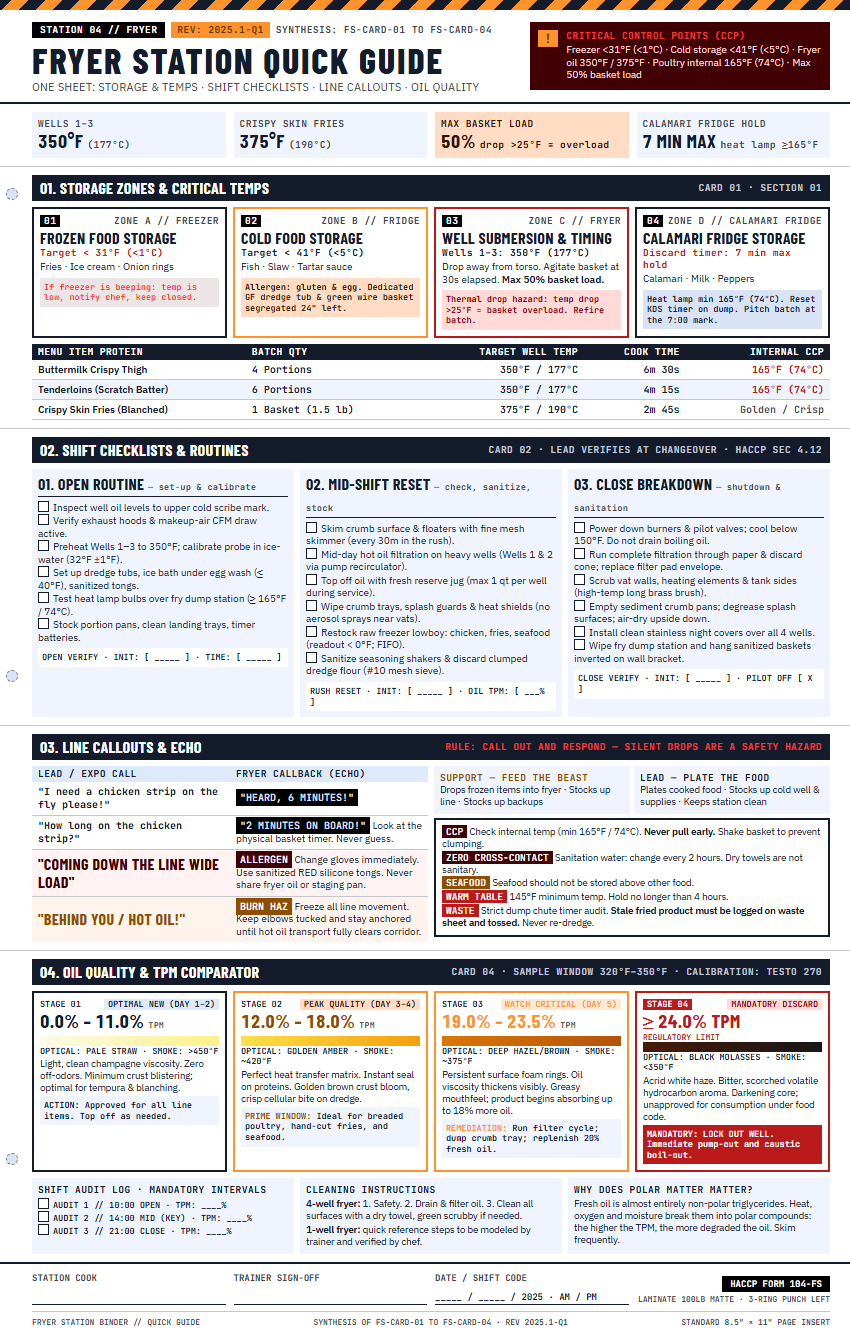
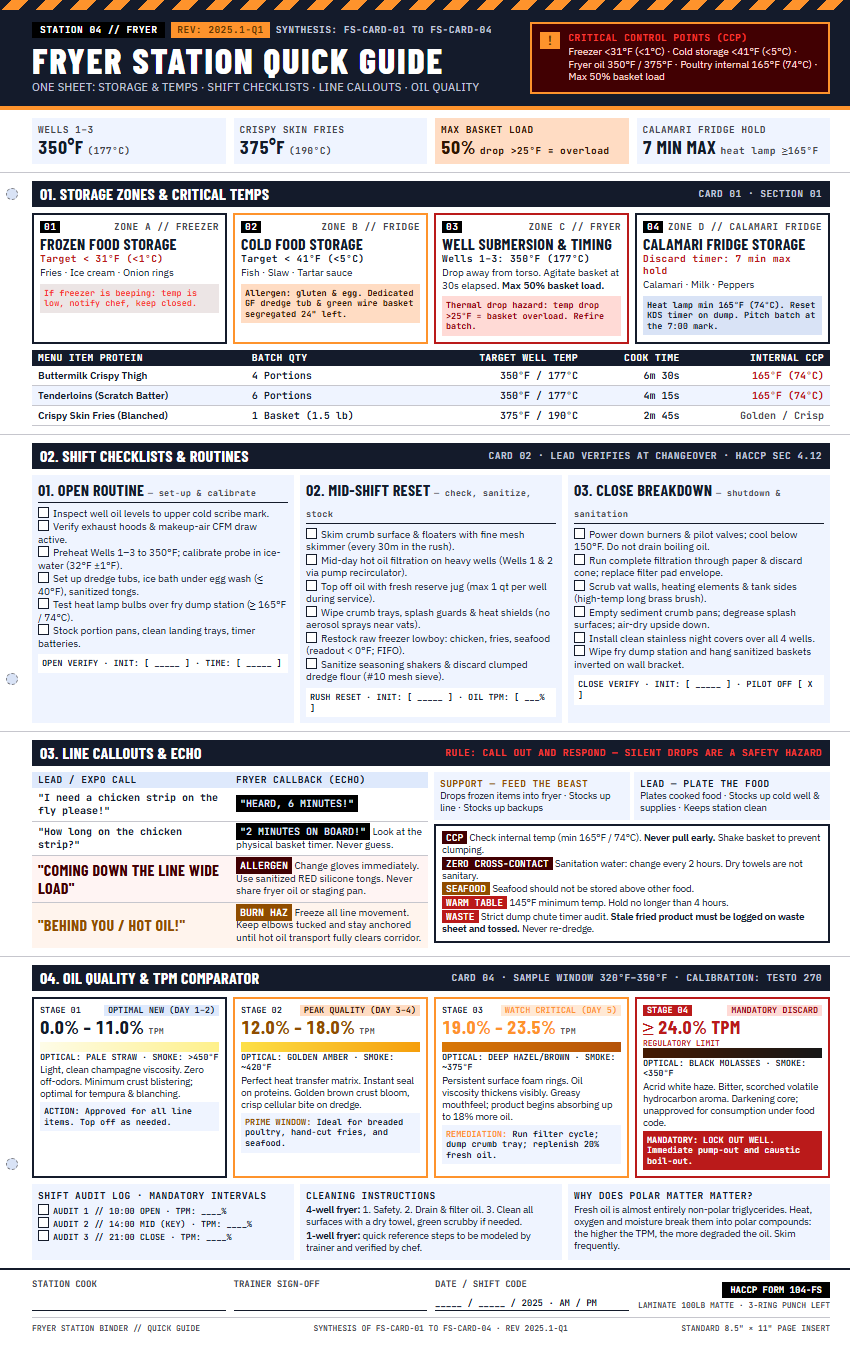
fix(example-training-materials): calmer top bar, guide header matches the cards
Short nav labels and no spec chips so brand + nav + buttons fit one row; the quick
guide opens with the same ink band the cards use. The edit banner and Reset button
no longer show with zero edits (Tailwind's .flex was beating the hidden attribute).
Nav links now verified by real click-through in the check script (18/18).

diff --git a/public/example-training-materials/card-01-storage-temps.html b/public/example-training-materials/card-01-storage-temps.html
@@ -1,6 +1,7 @@
 <!DOCTYPE html><html lang="en" style=""><head><meta charset="utf-8"><meta content="width=device-width, initial-scale=1.0" name="viewport">
 <title>Card 01 · Storage &amp; Temps</title><meta content="web_standard" name="shell-type"><link href="https://fonts.googleapis.com" rel="preconnect"><link crossorigin="" href="https://fonts.gstatic.com" rel="preconnect"><link href="https://fonts.googleapis.com/css2?family=Barlow+Condensed:wght@600;700;800&amp;family=IBM+Plex+Sans:wght@400;500;600&amp;family=JetBrains+Mono:wght@600;700&amp;display=swap" rel="stylesheet"><link href="https://fonts.googleapis.com/css2?family=Material+Symbols+Outlined:opsz,wght,FILL,GRAD@24,400,0,0" rel="stylesheet">
 <link href="https://fonts.googleapis.com/css2?family=Material+Symbols+Outlined:wght,FILL@100..700,0..1&amp;display=swap" rel="stylesheet"><style>@layer base{html,body{margin:0;padding:0;}body{overscroll-behavior:none;}main>:first-child{margin-top:0!important;}main>:last-child{margin-bottom:0!important;}}::-webkit-scrollbar{display:none;}</style><script src="https://cdn.tailwindcss.com"></script><script src="tw-config.js"></script><style>
+[hidden] { display: none !important; } /* Tailwind's .flex would otherwise beat the hidden attribute */
 label > input[type="checkbox"].peer + div { border: 2px solid #141b2b; }
 .is-editing [data-edit] { outline: 2px dashed #fe932c; outline-offset: 1px; cursor: text; background: #fff7ed; }
 .is-editing [data-edit]:focus { outline: 2px solid #141b2b; background: #fff; }
@@ -27,7 +28,7 @@ label > input[type="checkbox"].peer + div { border: 2px solid #141b2b; }
   .xl\:grid-cols-4{grid-template-columns:repeat(4,minmax(0,1fr))!important}
 }
 </style>
-</head><body data-card="01" class="bg-background font-body-md text-on-surface antialiased min-h-screen flex flex-col"><header class="sticky top-0 left-0 w-full z-50 bg-primary-container text-on-primary shadow-[0_1px_8px_rgba(0,0,0,0.04)]"><div class="min-h-16 w-full px-margin py-space-xs flex flex-wrap items-center justify-between gap-space-sm"><div class="flex items-center gap-space-lg"><div class="flex items-center gap-space-sm bg-primary px-space-md py-space-xs"><span class="w-2 h-2 bg-secondary-container"></span><span class="font-headline-md text-headline-md uppercase tracking-wide text-on-primary">Fryer Station</span></div><div class="hidden md:flex items-center gap-space-xs bg-surface-container-highest/20 px-space-sm py-space-xs"><span class="font-label-sm text-label-sm text-on-primary-container uppercase">BINDER SPEC:</span><span class="font-label-sm text-label-sm text-primary-fixed uppercase">5.5" × 8.5" HALF-SHEET</span></div></div><nav class="flex flex-wrap items-center gap-space-xs" aria-label="Binder"><a class="font-label-md text-label-md uppercase px-space-md py-space-xs text-on-primary-container hover:text-on-primary transition-colors" href="index.html">Binder Home</a><a aria-current="page" class="font-label-md text-label-md uppercase px-space-md py-space-xs transition-colors bg-primary text-on-primary font-bold shadow-[2px_2px_0px_#fe932c]" href="card-01-storage-temps.html">01. Storage &amp; Temps</a><a class="font-label-md text-label-md uppercase px-space-md py-space-xs text-on-primary-container hover:text-on-primary transition-colors" href="card-02-shift-checklists.html">02. Shift Checklists</a><a class="font-label-md text-label-md uppercase px-space-md py-space-xs text-on-primary-container hover:text-on-primary transition-colors" href="card-03-line-callouts.html">03. Line Callouts</a><a class="font-label-md text-label-md uppercase px-space-md py-space-xs text-on-primary-container hover:text-on-primary transition-colors" href="card-04-oil-quality.html">04. Oil Quality</a><a class="font-label-md text-label-md uppercase px-space-md py-space-xs text-on-primary-container hover:text-on-primary transition-colors" href="quick-guide.html">Quick Guide</a></nav><div class="flex items-center gap-space-md"><div class="flex items-center gap-space-sm">
+</head><body data-card="01" class="bg-background font-body-md text-on-surface antialiased min-h-screen flex flex-col"><header class="sticky top-0 left-0 w-full z-50 bg-primary-container text-on-primary shadow-[0_1px_8px_rgba(0,0,0,0.04)]"><div class="min-h-16 w-full px-margin py-space-xs flex flex-wrap items-center justify-between gap-space-sm"><div class="flex items-center gap-space-lg"><div class="flex items-center gap-space-sm bg-primary px-space-md py-space-xs"><span class="w-2 h-2 bg-secondary-container"></span><span class="font-headline-md text-headline-md uppercase tracking-wide text-on-primary">Fryer Station</span></div></div><nav class="flex flex-wrap items-center gap-space-xs" aria-label="Binder"><a class="font-label-md text-label-md uppercase px-space-sm py-space-xs text-on-primary-container hover:text-on-primary transition-colors" href="index.html">Home</a><a aria-current="page" class="font-label-md text-label-md uppercase px-space-sm py-space-xs transition-colors bg-primary text-on-primary font-bold shadow-[2px_2px_0px_#fe932c]" href="card-01-storage-temps.html">01 Storage &amp; Temps</a><a class="font-label-md text-label-md uppercase px-space-sm py-space-xs text-on-primary-container hover:text-on-primary transition-colors" href="card-02-shift-checklists.html">02 Checklists</a><a class="font-label-md text-label-md uppercase px-space-sm py-space-xs text-on-primary-container hover:text-on-primary transition-colors" href="card-03-line-callouts.html">03 Callouts</a><a class="font-label-md text-label-md uppercase px-space-sm py-space-xs text-on-primary-container hover:text-on-primary transition-colors" href="card-04-oil-quality.html">04 Oil Quality</a><a class="font-label-md text-label-md uppercase px-space-sm py-space-xs text-on-primary-container hover:text-on-primary transition-colors" href="quick-guide.html">Quick Guide</a></nav><div class="flex items-center gap-space-md"><div class="flex items-center gap-space-sm">
 <button type="button" data-lang-toggle data-i18n-skip class="flex items-center gap-1 bg-primary text-on-primary px-space-sm py-space-xs font-label-md text-label-md uppercase tracking-wider border border-outline" aria-label="Cambiar a español"><span class="material-symbols-outlined text-[16px]" aria-hidden="true">translate</span><span data-lang-label>Español</span></button>
 <button type="button" data-edit-toggle aria-pressed="false" class="flex items-center gap-1 bg-primary text-on-primary px-space-sm py-space-xs font-label-md text-label-md uppercase tracking-wider border border-outline"><span class="material-symbols-outlined text-[16px]" aria-hidden="true">edit</span><span data-edit-label data-i18n-skip>Edit</span></button>
 <button type="button" data-edit-reset hidden class="flex items-center gap-1 bg-error-container text-on-error-container px-space-sm py-space-xs font-label-md text-label-md uppercase tracking-wider"><span class="material-symbols-outlined text-[16px]" aria-hidden="true">undo</span><span>Reset edits</span></button>

diff --git a/public/example-training-materials/card-02-shift-checklists.html b/public/example-training-materials/card-02-shift-checklists.html
@@ -1,6 +1,7 @@
 <!DOCTYPE html><html lang="en" style=""><head><meta charset="utf-8"><meta content="width=device-width, initial-scale=1.0" name="viewport">
 <title>Card 02 · Shift Checklists</title><meta content="web_standard" name="shell-type"><link href="https://fonts.googleapis.com" rel="preconnect"><link crossorigin="" href="https://fonts.gstatic.com" rel="preconnect"><link href="https://fonts.googleapis.com/css2?family=Barlow+Condensed:wght@600;700;800&amp;family=IBM+Plex+Sans:wght@400;500;600&amp;family=JetBrains+Mono:wght@600;700&amp;display=swap" rel="stylesheet"><link href="https://fonts.googleapis.com/css2?family=Material+Symbols+Outlined:opsz,wght,FILL,GRAD@24,400,0,0" rel="stylesheet">
 <link href="https://fonts.googleapis.com/css2?family=Material+Symbols+Outlined:wght,FILL@100..700,0..1&amp;display=swap" rel="stylesheet"><style>@layer base{html,body{margin:0;padding:0;}body{overscroll-behavior:none;}main>:first-child{margin-top:0!important;}main>:last-child{margin-bottom:0!important;}}::-webkit-scrollbar{display:none;}</style><script src="https://cdn.tailwindcss.com"></script><script src="tw-config.js"></script><style>
+[hidden] { display: none !important; } /* Tailwind's .flex would otherwise beat the hidden attribute */
 label > input[type="checkbox"].peer + div { border: 2px solid #141b2b; }
 .is-editing [data-edit] { outline: 2px dashed #fe932c; outline-offset: 1px; cursor: text; background: #fff7ed; }
 .is-editing [data-edit]:focus { outline: 2px solid #141b2b; background: #fff; }
@@ -27,7 +28,7 @@ label > input[type="checkbox"].peer + div { border: 2px solid #141b2b; }
   .xl\:grid-cols-4{grid-template-columns:repeat(4,minmax(0,1fr))!important}
 }
 </style>
-</head><body data-card="02" class="bg-background font-body-md text-on-surface antialiased min-h-screen flex flex-col"><header class="sticky top-0 left-0 w-full z-50 bg-primary-container text-on-primary shadow-[0_1px_8px_rgba(0,0,0,0.04)]"><div class="min-h-16 w-full px-margin py-space-xs flex flex-wrap items-center justify-between gap-space-sm"><div class="flex items-center gap-space-lg"><div class="flex items-center gap-space-sm bg-primary px-space-md py-space-xs"><span class="w-2 h-2 bg-secondary-container"></span><span class="font-headline-md text-headline-md uppercase tracking-wide text-on-primary">Fryer Station</span></div><div class="hidden md:flex items-center gap-space-xs bg-surface-container-highest/20 px-space-sm py-space-xs"><span class="font-label-sm text-label-sm text-on-primary-container uppercase">BINDER SPEC:</span><span class="font-label-sm text-label-sm text-primary-fixed uppercase">5.5" × 8.5" HALF-SHEET</span></div></div><nav class="flex flex-wrap items-center gap-space-xs" aria-label="Binder"><a class="font-label-md text-label-md uppercase px-space-md py-space-xs text-on-primary-container hover:text-on-primary transition-colors" href="index.html">Binder Home</a><a class="font-label-md text-label-md uppercase px-space-md py-space-xs text-on-primary-container hover:text-on-primary transition-colors" href="card-01-storage-temps.html">01. Storage &amp; Temps</a><a aria-current="page" class="font-label-md text-label-md uppercase px-space-md py-space-xs transition-colors bg-primary text-on-primary font-bold shadow-[2px_2px_0px_#fe932c]" href="card-02-shift-checklists.html">02. Shift Checklists</a><a class="font-label-md text-label-md uppercase px-space-md py-space-xs text-on-primary-container hover:text-on-primary transition-colors" href="card-03-line-callouts.html">03. Line Callouts</a><a class="font-label-md text-label-md uppercase px-space-md py-space-xs text-on-primary-container hover:text-on-primary transition-colors" href="card-04-oil-quality.html">04. Oil Quality</a><a class="font-label-md text-label-md uppercase px-space-md py-space-xs text-on-primary-container hover:text-on-primary transition-colors" href="quick-guide.html">Quick Guide</a></nav><div class="flex items-center gap-space-md"><div class="flex items-center gap-space-sm">
+</head><body data-card="02" class="bg-background font-body-md text-on-surface antialiased min-h-screen flex flex-col"><header class="sticky top-0 left-0 w-full z-50 bg-primary-container text-on-primary shadow-[0_1px_8px_rgba(0,0,0,0.04)]"><div class="min-h-16 w-full px-margin py-space-xs flex flex-wrap items-center justify-between gap-space-sm"><div class="flex items-center gap-space-lg"><div class="flex items-center gap-space-sm bg-primary px-space-md py-space-xs"><span class="w-2 h-2 bg-secondary-container"></span><span class="font-headline-md text-headline-md uppercase tracking-wide text-on-primary">Fryer Station</span></div></div><nav class="flex flex-wrap items-center gap-space-xs" aria-label="Binder"><a class="font-label-md text-label-md uppercase px-space-sm py-space-xs text-on-primary-container hover:text-on-primary transition-colors" href="index.html">Home</a><a class="font-label-md text-label-md uppercase px-space-sm py-space-xs text-on-primary-container hover:text-on-primary transition-colors" href="card-01-storage-temps.html">01 Storage &amp; Temps</a><a aria-current="page" class="font-label-md text-label-md uppercase px-space-sm py-space-xs transition-colors bg-primary text-on-primary font-bold shadow-[2px_2px_0px_#fe932c]" href="card-02-shift-checklists.html">02 Checklists</a><a class="font-label-md text-label-md uppercase px-space-sm py-space-xs text-on-primary-container hover:text-on-primary transition-colors" href="card-03-line-callouts.html">03 Callouts</a><a class="font-label-md text-label-md uppercase px-space-sm py-space-xs text-on-primary-container hover:text-on-primary transition-colors" href="card-04-oil-quality.html">04 Oil Quality</a><a class="font-label-md text-label-md uppercase px-space-sm py-space-xs text-on-primary-container hover:text-on-primary transition-colors" href="quick-guide.html">Quick Guide</a></nav><div class="flex items-center gap-space-md"><div class="flex items-center gap-space-sm">
 <button type="button" data-lang-toggle data-i18n-skip class="flex items-center gap-1 bg-primary text-on-primary px-space-sm py-space-xs font-label-md text-label-md uppercase tracking-wider border border-outline" aria-label="Cambiar a español"><span class="material-symbols-outlined text-[16px]" aria-hidden="true">translate</span><span data-lang-label>Español</span></button>
 <button type="button" data-edit-toggle aria-pressed="false" class="flex items-center gap-1 bg-primary text-on-primary px-space-sm py-space-xs font-label-md text-label-md uppercase tracking-wider border border-outline"><span class="material-symbols-outlined text-[16px]" aria-hidden="true">edit</span><span data-edit-label data-i18n-skip>Edit</span></button>
 <button type="button" data-edit-reset hidden class="flex items-center gap-1 bg-error-container text-on-error-container px-space-sm py-space-xs font-label-md text-label-md uppercase tracking-wider"><span class="material-symbols-outlined text-[16px]" aria-hidden="true">undo</span><span>Reset edits</span></button>

diff --git a/public/example-training-materials/card-03-line-callouts.html b/public/example-training-materials/card-03-line-callouts.html
@@ -1,6 +1,7 @@
 <!DOCTYPE html><html lang="en" style=""><head><meta charset="utf-8"><meta content="width=device-width, initial-scale=1.0" name="viewport">
 <title>Card 03 · Line Callouts</title><meta content="web_standard" name="shell-type"><link href="https://fonts.googleapis.com" rel="preconnect"><link crossorigin="" href="https://fonts.gstatic.com" rel="preconnect"><link href="https://fonts.googleapis.com/css2?family=Barlow+Condensed:wght@600;700;800&amp;family=IBM+Plex+Sans:wght@400;500;600&amp;family=JetBrains+Mono:wght@600;700&amp;display=swap" rel="stylesheet"><link href="https://fonts.googleapis.com/css2?family=Material+Symbols+Outlined:opsz,wght,FILL,GRAD@24,400,0,0" rel="stylesheet">
 <link href="https://fonts.googleapis.com/css2?family=Material+Symbols+Outlined:wght,FILL@100..700,0..1&amp;display=swap" rel="stylesheet"><style>@layer base{html,body{margin:0;padding:0;}body{overscroll-behavior:none;}main>:first-child{margin-top:0!important;}main>:last-child{margin-bottom:0!important;}}::-webkit-scrollbar{display:none;}</style><script src="https://cdn.tailwindcss.com"></script><script src="tw-config.js"></script><style>
+[hidden] { display: none !important; } /* Tailwind's .flex would otherwise beat the hidden attribute */
 label > input[type="checkbox"].peer + div { border: 2px solid #141b2b; }
 .is-editing [data-edit] { outline: 2px dashed #fe932c; outline-offset: 1px; cursor: text; background: #fff7ed; }
 .is-editing [data-edit]:focus { outline: 2px solid #141b2b; background: #fff; }
@@ -27,7 +28,7 @@ label > input[type="checkbox"].peer + div { border: 2px solid #141b2b; }
   .xl\:grid-cols-4{grid-template-columns:repeat(4,minmax(0,1fr))!important}
 }
 </style>
-</head><body data-card="03" class="bg-background font-body-md text-on-surface antialiased min-h-screen flex flex-col"><header class="sticky top-0 left-0 w-full z-50 bg-primary-container text-on-primary shadow-[0_1px_8px_rgba(0,0,0,0.04)]"><div class="min-h-16 w-full px-margin py-space-xs flex flex-wrap items-center justify-between gap-space-sm"><div class="flex items-center gap-space-lg"><div class="flex items-center gap-space-sm bg-primary px-space-md py-space-xs"><span class="w-2 h-2 bg-secondary-container"></span><span class="font-headline-md text-headline-md uppercase tracking-wide text-on-primary">Fryer Station</span></div><div class="hidden md:flex items-center gap-space-xs bg-surface-container-highest/20 px-space-sm py-space-xs"><span class="font-label-sm text-label-sm text-on-primary-container uppercase">BINDER SPEC:</span><span class="font-label-sm text-label-sm text-primary-fixed uppercase">5.5" × 8.5" HALF-SHEET</span></div></div><nav class="flex flex-wrap items-center gap-space-xs" aria-label="Binder"><a class="font-label-md text-label-md uppercase px-space-md py-space-xs text-on-primary-container hover:text-on-primary transition-colors" href="index.html">Binder Home</a><a class="font-label-md text-label-md uppercase px-space-md py-space-xs text-on-primary-container hover:text-on-primary transition-colors" href="card-01-storage-temps.html">01. Storage &amp; Temps</a><a class="font-label-md text-label-md uppercase px-space-md py-space-xs text-on-primary-container hover:text-on-primary transition-colors" href="card-02-shift-checklists.html">02. Shift Checklists</a><a aria-current="page" class="font-label-md text-label-md uppercase px-space-md py-space-xs transition-colors bg-primary text-on-primary font-bold shadow-[2px_2px_0px_#fe932c]" href="card-03-line-callouts.html">03. Line Callouts</a><a class="font-label-md text-label-md uppercase px-space-md py-space-xs text-on-primary-container hover:text-on-primary transition-colors" href="card-04-oil-quality.html">04. Oil Quality</a><a class="font-label-md text-label-md uppercase px-space-md py-space-xs text-on-primary-container hover:text-on-primary transition-colors" href="quick-guide.html">Quick Guide</a></nav><div class="flex items-center gap-space-md"><div class="flex items-center gap-space-sm">
+</head><body data-card="03" class="bg-background font-body-md text-on-surface antialiased min-h-screen flex flex-col"><header class="sticky top-0 left-0 w-full z-50 bg-primary-container text-on-primary shadow-[0_1px_8px_rgba(0,0,0,0.04)]"><div class="min-h-16 w-full px-margin py-space-xs flex flex-wrap items-center justify-between gap-space-sm"><div class="flex items-center gap-space-lg"><div class="flex items-center gap-space-sm bg-primary px-space-md py-space-xs"><span class="w-2 h-2 bg-secondary-container"></span><span class="font-headline-md text-headline-md uppercase tracking-wide text-on-primary">Fryer Station</span></div></div><nav class="flex flex-wrap items-center gap-space-xs" aria-label="Binder"><a class="font-label-md text-label-md uppercase px-space-sm py-space-xs text-on-primary-container hover:text-on-primary transition-colors" href="index.html">Home</a><a class="font-label-md text-label-md uppercase px-space-sm py-space-xs text-on-primary-container hover:text-on-primary transition-colors" href="card-01-storage-temps.html">01 Storage &amp; Temps</a><a class="font-label-md text-label-md uppercase px-space-sm py-space-xs text-on-primary-container hover:text-on-primary transition-colors" href="card-02-shift-checklists.html">02 Checklists</a><a aria-current="page" class="font-label-md text-label-md uppercase px-space-sm py-space-xs transition-colors bg-primary text-on-primary font-bold shadow-[2px_2px_0px_#fe932c]" href="card-03-line-callouts.html">03 Callouts</a><a class="font-label-md text-label-md uppercase px-space-sm py-space-xs text-on-primary-container hover:text-on-primary transition-colors" href="card-04-oil-quality.html">04 Oil Quality</a><a class="font-label-md text-label-md uppercase px-space-sm py-space-xs text-on-primary-container hover:text-on-primary transition-colors" href="quick-guide.html">Quick Guide</a></nav><div class="flex items-center gap-space-md"><div class="flex items-center gap-space-sm">
 <button type="button" data-lang-toggle data-i18n-skip class="flex items-center gap-1 bg-primary text-on-primary px-space-sm py-space-xs font-label-md text-label-md uppercase tracking-wider border border-outline" aria-label="Cambiar a español"><span class="material-symbols-outlined text-[16px]" aria-hidden="true">translate</span><span data-lang-label>Español</span></button>
 <button type="button" data-edit-toggle aria-pressed="false" class="flex items-center gap-1 bg-primary text-on-primary px-space-sm py-space-xs font-label-md text-label-md uppercase tracking-wider border border-outline"><span class="material-symbols-outlined text-[16px]" aria-hidden="true">edit</span><span data-edit-label data-i18n-skip>Edit</span></button>
 <button type="button" data-edit-reset hidden class="flex items-center gap-1 bg-error-container text-on-error-container px-space-sm py-space-xs font-label-md text-label-md uppercase tracking-wider"><span class="material-symbols-outlined text-[16px]" aria-hidden="true">undo</span><span>Reset edits</span></button>

diff --git a/public/example-training-materials/card-04-oil-quality.html b/public/example-training-materials/card-04-oil-quality.html
@@ -1,6 +1,7 @@
 <!DOCTYPE html><html lang="en" style=""><head><meta charset="utf-8"><meta content="width=device-width, initial-scale=1.0" name="viewport">
 <title>Card 04 · Oil Quality</title><meta content="web_standard" name="shell-type"><link href="https://fonts.googleapis.com" rel="preconnect"><link crossorigin="" href="https://fonts.gstatic.com" rel="preconnect"><link href="https://fonts.googleapis.com/css2?family=Barlow+Condensed:wght@600;700;800&amp;family=IBM+Plex+Sans:wght@400;500;600&amp;family=JetBrains+Mono:wght@600;700&amp;display=swap" rel="stylesheet"><link href="https://fonts.googleapis.com/css2?family=Material+Symbols+Outlined:opsz,wght,FILL,GRAD@24,400,0,0" rel="stylesheet">
 <link href="https://fonts.googleapis.com/css2?family=Material+Symbols+Outlined:wght,FILL@100..700,0..1&amp;display=swap" rel="stylesheet"><style>@layer base{html,body{margin:0;padding:0;}body{overscroll-behavior:none;}main>:first-child{margin-top:0!important;}main>:last-child{margin-bottom:0!important;}}::-webkit-scrollbar{display:none;}</style><script src="https://cdn.tailwindcss.com"></script><script src="tw-config.js"></script><style>
+[hidden] { display: none !important; } /* Tailwind's .flex would otherwise beat the hidden attribute */
 label > input[type="checkbox"].peer + div { border: 2px solid #141b2b; }
 .is-editing [data-edit] { outline: 2px dashed #fe932c; outline-offset: 1px; cursor: text; background: #fff7ed; }
 .is-editing [data-edit]:focus { outline: 2px solid #141b2b; background: #fff; }
@@ -27,7 +28,7 @@ label > input[type="checkbox"].peer + div { border: 2px solid #141b2b; }
   .xl\:grid-cols-4{grid-template-columns:repeat(4,minmax(0,1fr))!important}
 }
 </style>
-</head><body data-card="04" class="bg-background font-body-md text-on-surface antialiased min-h-screen flex flex-col"><header class="sticky top-0 left-0 w-full z-50 bg-primary-container text-on-primary shadow-[0_1px_8px_rgba(0,0,0,0.04)]"><div class="min-h-16 w-full px-margin py-space-xs flex flex-wrap items-center justify-between gap-space-sm"><div class="flex items-center gap-space-lg"><div class="flex items-center gap-space-sm bg-primary px-space-md py-space-xs"><span class="w-2 h-2 bg-secondary-container"></span><span class="font-headline-md text-headline-md uppercase tracking-wide text-on-primary">Fryer Station</span></div><div class="hidden md:flex items-center gap-space-xs bg-surface-container-highest/20 px-space-sm py-space-xs"><span class="font-label-sm text-label-sm text-on-primary-container uppercase">BINDER SPEC:</span><span class="font-label-sm text-label-sm text-primary-fixed uppercase">5.5" × 8.5" HALF-SHEET</span></div></div><nav class="flex flex-wrap items-center gap-space-xs" aria-label="Binder"><a class="font-label-md text-label-md uppercase px-space-md py-space-xs text-on-primary-container hover:text-on-primary transition-colors" href="index.html">Binder Home</a><a class="font-label-md text-label-md uppercase px-space-md py-space-xs text-on-primary-container hover:text-on-primary transition-colors" href="card-01-storage-temps.html">01. Storage &amp; Temps</a><a class="font-label-md text-label-md uppercase px-space-md py-space-xs text-on-primary-container hover:text-on-primary transition-colors" href="card-02-shift-checklists.html">02. Shift Checklists</a><a class="font-label-md text-label-md uppercase px-space-md py-space-xs text-on-primary-container hover:text-on-primary transition-colors" href="card-03-line-callouts.html">03. Line Callouts</a><a aria-current="page" class="font-label-md text-label-md uppercase px-space-md py-space-xs transition-colors bg-primary text-on-primary font-bold shadow-[2px_2px_0px_#fe932c]" href="card-04-oil-quality.html">04. Oil Quality</a><a class="font-label-md text-label-md uppercase px-space-md py-space-xs text-on-primary-container hover:text-on-primary transition-colors" href="quick-guide.html">Quick Guide</a></nav><div class="flex items-center gap-space-md"><div class="flex items-center gap-space-sm">
+</head><body data-card="04" class="bg-background font-body-md text-on-surface antialiased min-h-screen flex flex-col"><header class="sticky top-0 left-0 w-full z-50 bg-primary-container text-on-primary shadow-[0_1px_8px_rgba(0,0,0,0.04)]"><div class="min-h-16 w-full px-margin py-space-xs flex flex-wrap items-center justify-between gap-space-sm"><div class="flex items-center gap-space-lg"><div class="flex items-center gap-space-sm bg-primary px-space-md py-space-xs"><span class="w-2 h-2 bg-secondary-container"></span><span class="font-headline-md text-headline-md uppercase tracking-wide text-on-primary">Fryer Station</span></div></div><nav class="flex flex-wrap items-center gap-space-xs" aria-label="Binder"><a class="font-label-md text-label-md uppercase px-space-sm py-space-xs text-on-primary-container hover:text-on-primary transition-colors" href="index.html">Home</a><a class="font-label-md text-label-md uppercase px-space-sm py-space-xs text-on-primary-container hover:text-on-primary transition-colors" href="card-01-storage-temps.html">01 Storage &amp; Temps</a><a class="font-label-md text-label-md uppercase px-space-sm py-space-xs text-on-primary-container hover:text-on-primary transition-colors" href="card-02-shift-checklists.html">02 Checklists</a><a class="font-label-md text-label-md uppercase px-space-sm py-space-xs text-on-primary-container hover:text-on-primary transition-colors" href="card-03-line-callouts.html">03 Callouts</a><a aria-current="page" class="font-label-md text-label-md uppercase px-space-sm py-space-xs transition-colors bg-primary text-on-primary font-bold shadow-[2px_2px_0px_#fe932c]" href="card-04-oil-quality.html">04 Oil Quality</a><a class="font-label-md text-label-md uppercase px-space-sm py-space-xs text-on-primary-container hover:text-on-primary transition-colors" href="quick-guide.html">Quick Guide</a></nav><div class="flex items-center gap-space-md"><div class="flex items-center gap-space-sm">
 <button type="button" data-lang-toggle data-i18n-skip class="flex items-center gap-1 bg-primary text-on-primary px-space-sm py-space-xs font-label-md text-label-md uppercase tracking-wider border border-outline" aria-label="Cambiar a español"><span class="material-symbols-outlined text-[16px]" aria-hidden="true">translate</span><span data-lang-label>Español</span></button>
 <button type="button" data-edit-toggle aria-pressed="false" class="flex items-center gap-1 bg-primary text-on-primary px-space-sm py-space-xs font-label-md text-label-md uppercase tracking-wider border border-outline"><span class="material-symbols-outlined text-[16px]" aria-hidden="true">edit</span><span data-edit-label data-i18n-skip>Edit</span></button>
 <button type="button" data-edit-reset hidden class="flex items-center gap-1 bg-error-container text-on-error-container px-space-sm py-space-xs font-label-md text-label-md uppercase tracking-wider"><span class="material-symbols-outlined text-[16px]" aria-hidden="true">undo</span><span>Reset edits</span></button>

diff --git a/public/example-training-materials/quick-guide.html b/public/example-training-materials/quick-guide.html
@@ -12,6 +12,7 @@
 <script src="tw-config.js"></script>
 <style>
 html, body { margin: 0; padding: 0; }
+[hidden] { display: none !important; } /* Tailwind's .flex would otherwise beat the hidden attribute */
 .hazard { background: repeating-linear-gradient(-45deg, #141b2b, #141b2b 12px, #fe932c 12px, #fe932c 24px); }
 .num { font-variant-numeric: tabular-nums; }
 .punch { position: absolute; left: 6px; width: 12px; height: 12px; border-radius: 50%; border: 1.5px dashed #76777d; background: #d9e3f6; }
@@ -38,15 +39,14 @@ html, body { margin: 0; padding: 0; }
 <div class="min-h-16 w-full px-margin py-space-xs flex flex-wrap items-center justify-between gap-space-sm">
 <div class="flex items-center gap-space-lg">
 <div class="flex items-center gap-space-sm bg-primary px-space-md py-space-xs"><span class="w-2 h-2 bg-secondary-container"></span><span class="font-headline-md text-headline-md uppercase tracking-wide text-on-primary">Fryer Station</span></div>
-<div class="hidden md:flex items-center gap-space-xs bg-surface-container-highest/20 px-space-sm py-space-xs"><span class="font-label-sm text-label-sm text-on-primary-container uppercase">FORMAT:</span><span class="font-label-sm text-label-sm text-primary-fixed uppercase">8.5" × 11" PORTRAIT</span></div>
 </div>
 <nav class="flex flex-wrap items-center gap-space-xs" aria-label="Binder">
-<a class="font-label-md text-label-md uppercase px-space-md py-space-xs text-on-primary-container hover:text-on-primary transition-colors" href="index.html">Binder Home</a>
-<a class="font-label-md text-label-md uppercase px-space-md py-space-xs text-on-primary-container hover:text-on-primary transition-colors" href="card-01-storage-temps.html">01. Storage &amp; Temps</a>
-<a class="font-label-md text-label-md uppercase px-space-md py-space-xs text-on-primary-container hover:text-on-primary transition-colors" href="card-02-shift-checklists.html">02. Shift Checklists</a>
-<a class="font-label-md text-label-md uppercase px-space-md py-space-xs text-on-primary-container hover:text-on-primary transition-colors" href="card-03-line-callouts.html">03. Line Callouts</a>
-<a class="font-label-md text-label-md uppercase px-space-md py-space-xs text-on-primary-container hover:text-on-primary transition-colors" href="card-04-oil-quality.html">04. Oil Quality</a>
-<a aria-current="page" class="font-label-md text-label-md uppercase px-space-md py-space-xs transition-colors bg-primary text-on-primary font-bold shadow-[2px_2px_0px_#fe932c]" href="quick-guide.html">Quick Guide</a>
+<a class="font-label-md text-label-md uppercase px-space-sm py-space-xs text-on-primary-container hover:text-on-primary transition-colors" href="index.html">Home</a>
+<a class="font-label-md text-label-md uppercase px-space-sm py-space-xs text-on-primary-container hover:text-on-primary transition-colors" href="card-01-storage-temps.html">01 Storage &amp; Temps</a>
+<a class="font-label-md text-label-md uppercase px-space-sm py-space-xs text-on-primary-container hover:text-on-primary transition-colors" href="card-02-shift-checklists.html">02 Checklists</a>
+<a class="font-label-md text-label-md uppercase px-space-sm py-space-xs text-on-primary-container hover:text-on-primary transition-colors" href="card-03-line-callouts.html">03 Callouts</a>
+<a class="font-label-md text-label-md uppercase px-space-sm py-space-xs text-on-primary-container hover:text-on-primary transition-colors" href="card-04-oil-quality.html">04 Oil Quality</a>
+<a aria-current="page" class="font-label-md text-label-md uppercase px-space-sm py-space-xs transition-colors bg-primary text-on-primary font-bold shadow-[2px_2px_0px_#fe932c]" href="quick-guide.html">Quick Guide</a>
 </nav>
 <div class="flex items-center gap-space-sm">
 <button type="button" data-lang-toggle data-i18n-skip class="flex items-center gap-1 bg-primary text-on-primary px-space-sm py-space-xs font-label-md text-label-md uppercase tracking-wider border border-outline" aria-label="Cambiar a español"><span class="material-symbols-outlined text-[16px]" aria-hidden="true">translate</span><span data-lang-label>Español</span></button>
@@ -71,19 +71,19 @@ html, body { margin: 0; padding: 0; }
 </div>
 <div class="hazard h-2.5 w-full"></div>
 
-<!-- MASTER HEADER -->
-<div class="pl-8 pr-5 pt-3 pb-2 border-b-2 border-primary-container">
+<!-- MASTER HEADER — the same ink band the cards open with -->
+<div class="pl-8 pr-5 pt-3 pb-3 bg-primary-container text-on-primary border-b-4 border-secondary-container">
 <div class="flex flex-wrap items-start justify-between gap-2">
 <div>
 <div class="flex flex-wrap items-center gap-1.5">
 <span class="bg-primary text-on-primary px-2 py-0.5 font-label-sm text-label-sm uppercase">Station 04 // Fryer</span>
 <span class="bg-secondary-container text-on-secondary-container px-1.5 py-0.5 font-label-sm text-label-sm uppercase font-bold">Rev: 2025.1-Q1</span>
-<span class="font-label-sm text-label-sm text-on-surface-variant uppercase">Synthesis: FS-Card-01 to FS-Card-04</span>
+<span class="font-label-sm text-label-sm text-primary-fixed-dim uppercase">Synthesis: FS-Card-01 to FS-Card-04</span>
 </div>
-<h1 class="font-display text-display uppercase text-on-background leading-none mt-1">Fryer Station Quick Guide</h1>
-<p class="font-body-sm text-body-sm text-on-surface-variant uppercase tracking-wide mt-0.5">One sheet: storage &amp; temps · shift checklists · line callouts · oil quality</p>
+<h1 class="font-display text-display uppercase text-on-primary leading-none mt-1">Fryer Station Quick Guide</h1>
+<p class="font-body-sm text-body-sm text-primary-fixed-dim uppercase tracking-wide mt-0.5">One sheet: storage &amp; temps · shift checklists · line callouts · oil quality</p>
 </div>
-<div class="bg-tertiary-container text-tertiary-fixed p-2 max-w-[300px] flex items-start gap-2">
+<div class="bg-tertiary-container text-tertiary-fixed p-2 max-w-[300px] flex items-start gap-2 border-2 border-secondary-container">
 <span class="bg-secondary-container text-on-secondary-container font-label-lg text-label-lg px-1.5 leading-none py-0.5">!</span>
 <div class="text-[10px] leading-tight font-body-sm">
 <div class="font-label-sm text-label-sm uppercase font-bold text-on-tertiary-container">Critical control points (CCP)</div>

diff --git a/public/example-training-materials/index.html b/public/example-training-materials/index.html
@@ -189,11 +189,11 @@ table.spec tr:nth-child(even) td { background: var(--s1); }
 <div class="wrap">
 <div class="brand"><i></i><span>Pelican · Line Training Binder</span></div>
 <nav aria-label="Binder">
-<a aria-current="page" href="index.html">Binder Home</a>
-<a href="card-01-storage-temps.html">01. Storage &amp; Temps</a>
-<a href="card-02-shift-checklists.html">02. Shift Checklists</a>
-<a href="card-03-line-callouts.html">03. Line Callouts</a>
-<a href="card-04-oil-quality.html">04. Oil Quality</a>
+<a aria-current="page" href="index.html">Home</a>
+<a href="card-01-storage-temps.html">01 Storage &amp; Temps</a>
+<a href="card-02-shift-checklists.html">02 Checklists</a>
+<a href="card-03-line-callouts.html">03 Callouts</a>
+<a href="card-04-oil-quality.html">04 Oil Quality</a>
 <a href="quick-guide.html">Quick Guide</a>
 </nav>
 <div class="tools">

diff --git a/public/example-training-materials/es.js b/public/example-training-materials/es.js
@@ -5,11 +5,11 @@
 window.ETM_ES = {
   // ---- shared chrome
   "Pelican · Line Training Binder": "Pelican · Carpeta de capacitación de línea",
-  "Binder Home": "Inicio de la carpeta",
-  "01. Storage & Temps": "01. Almacenamiento y temperaturas",
-  "02. Shift Checklists": "02. Listas de turno",
-  "03. Line Callouts": "03. Llamados en la línea",
-  "04. Oil Quality": "04. Calidad del aceite",
+  "Home": "Inicio",
+  "01 Storage & Temps": "01 Almacenamiento y temps",
+  "02 Checklists": "02 Listas de turno",
+  "03 Callouts": "03 Llamados",
+  "04 Oil Quality": "04 Calidad del aceite",
   "Quick Guide": "Guía rápida",
   "Fryer Station": "Estación de freidora",
   "BINDER SPEC:": "ESPEC. CARPETA:",
